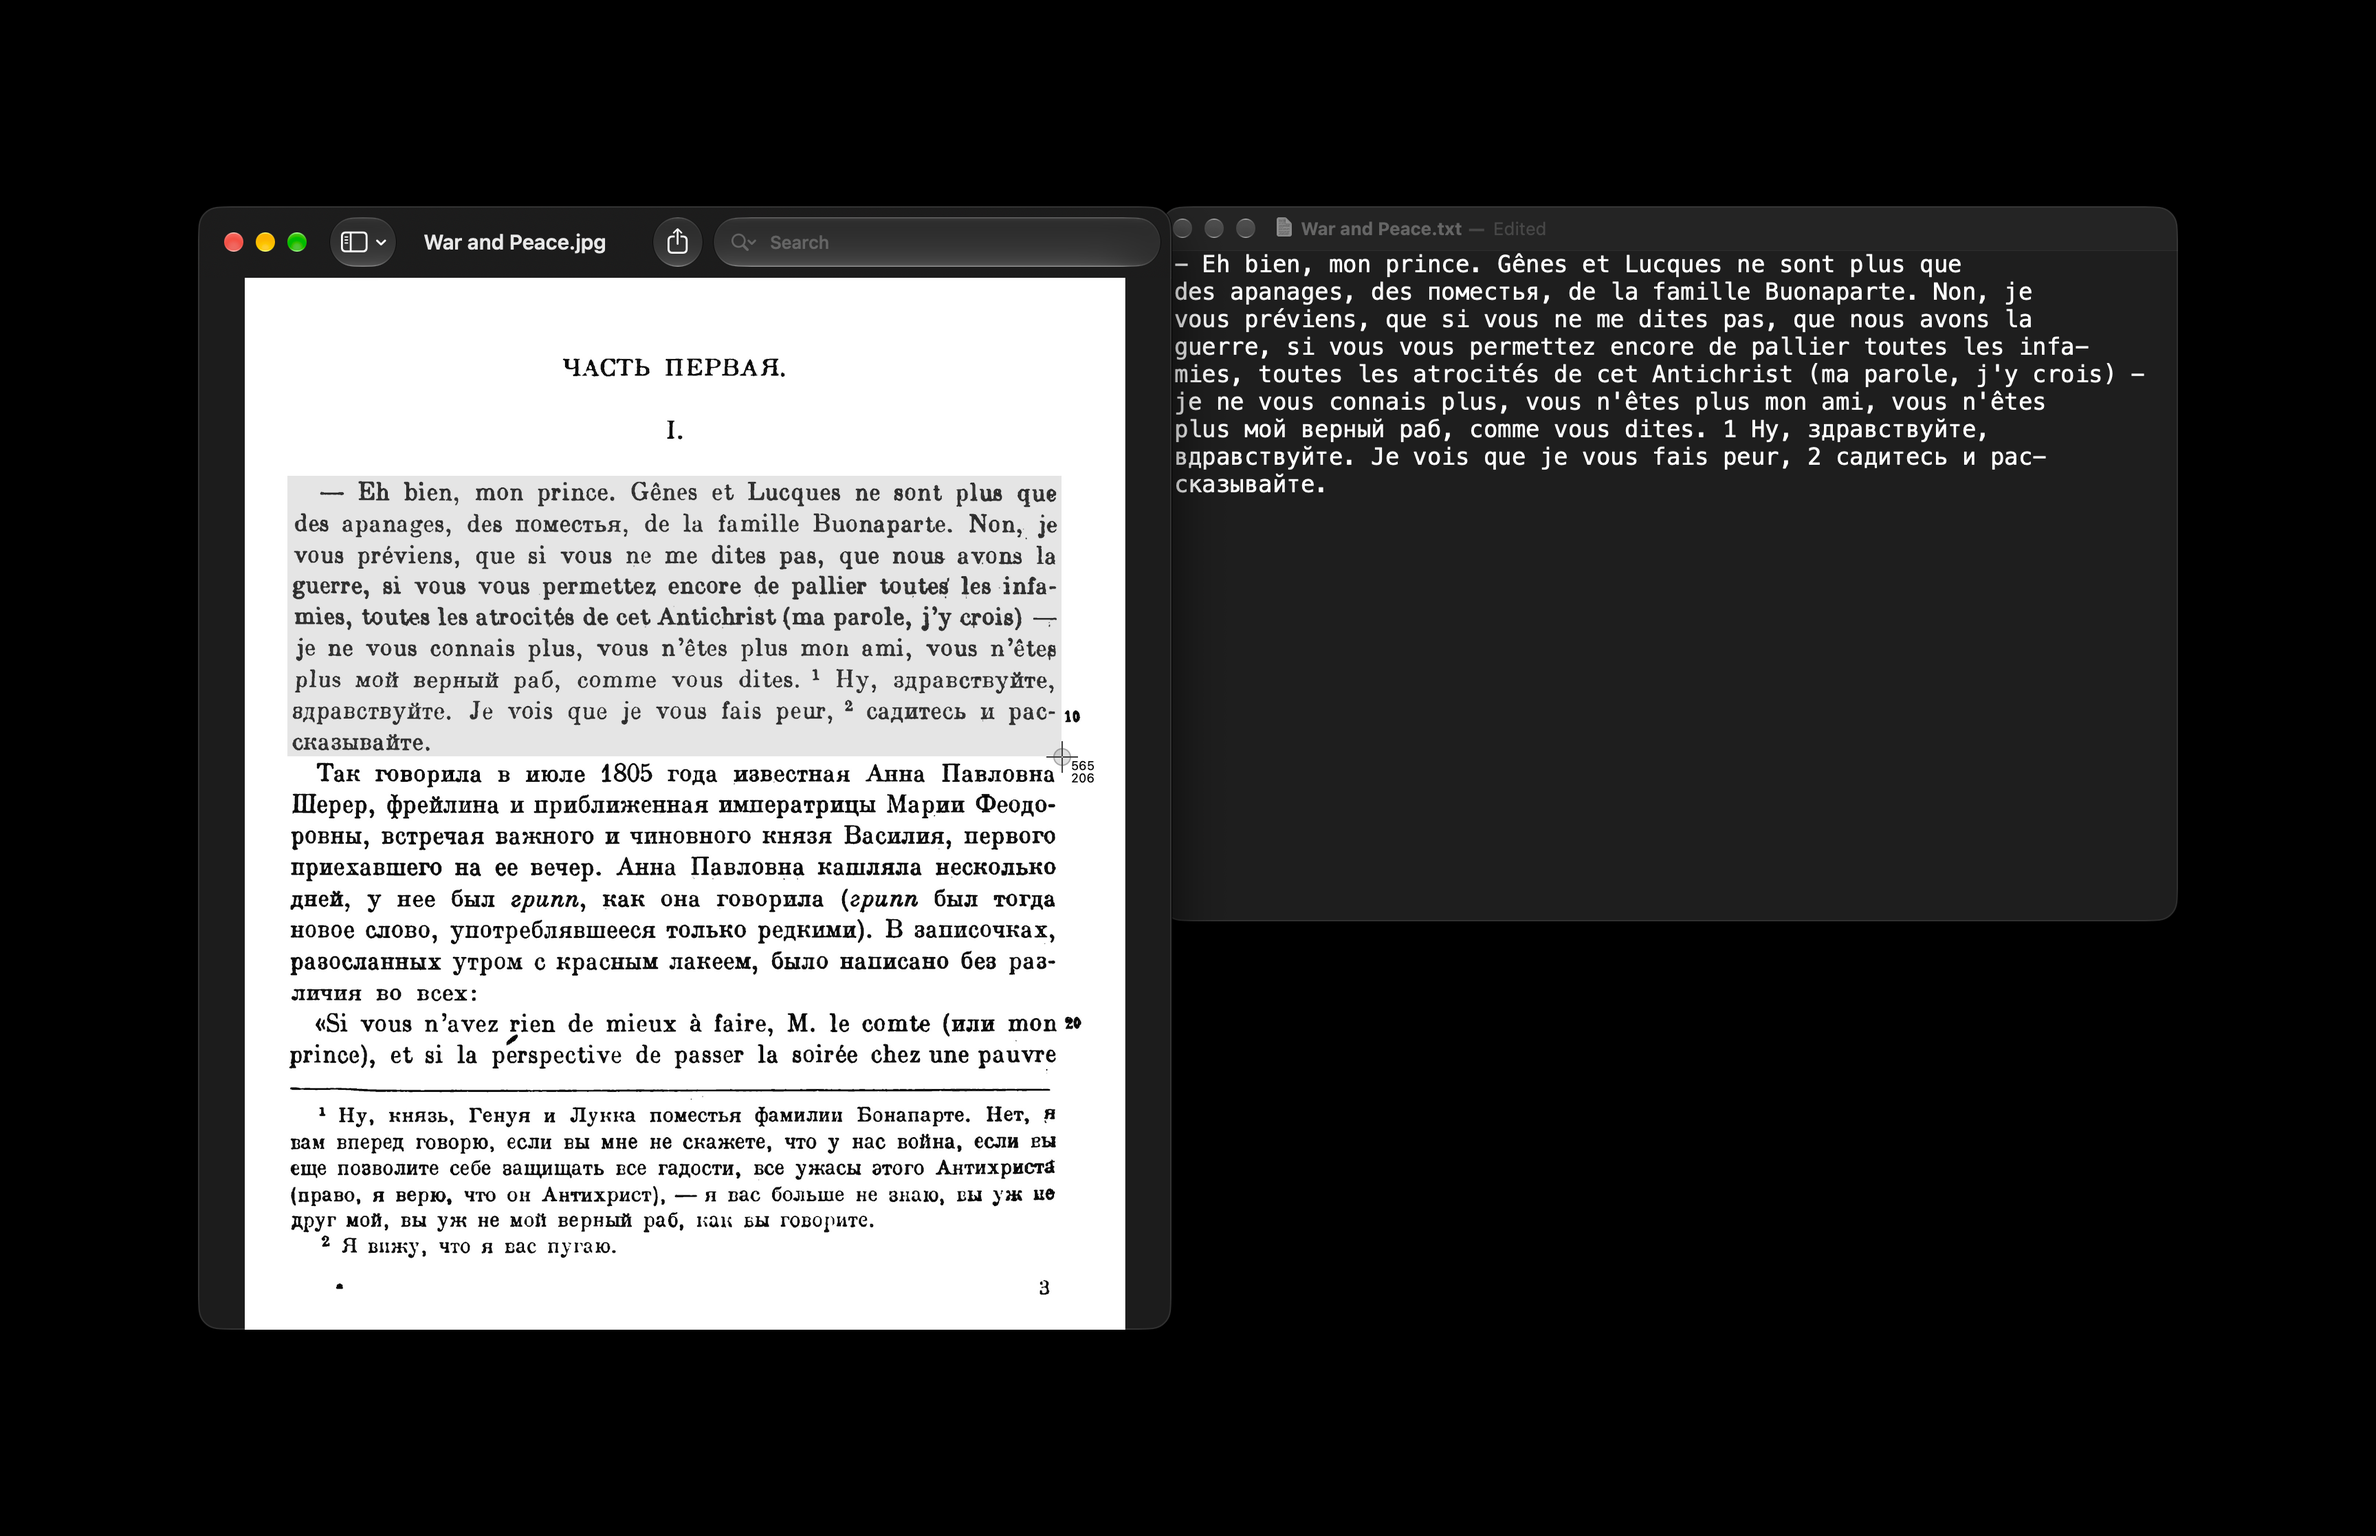
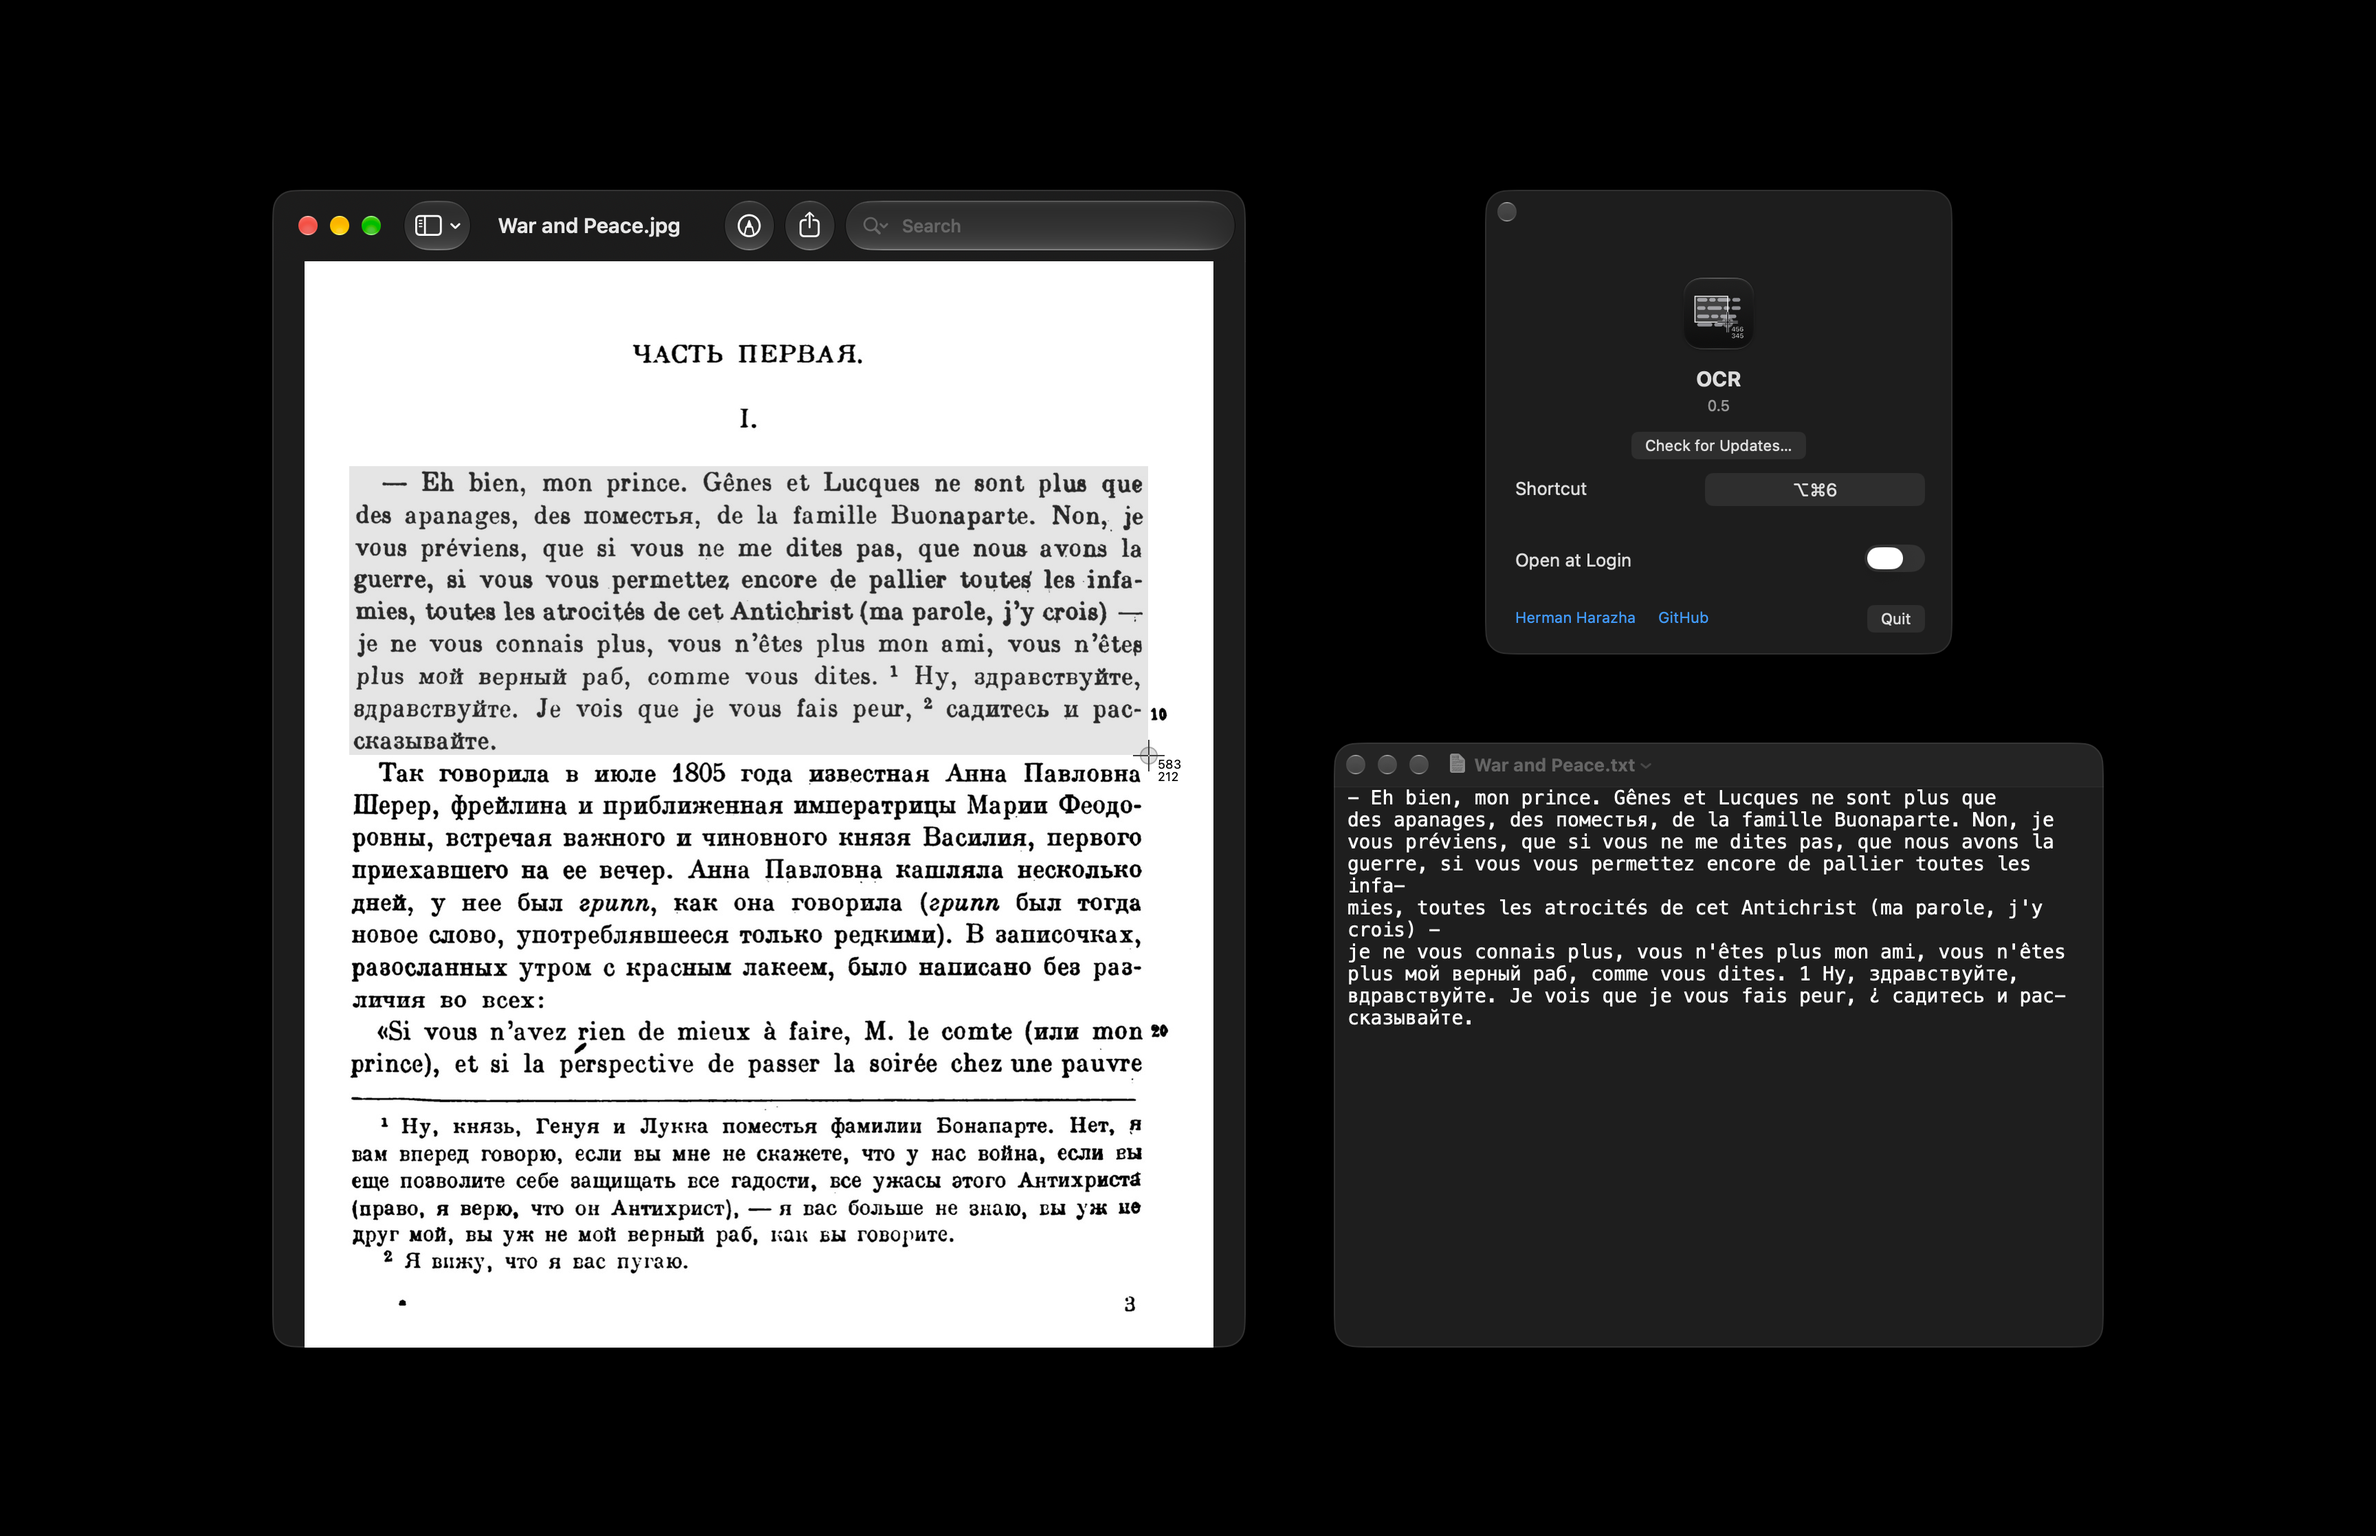
README: new screenshots
Reshot 2026-11-26 on macOS 27, light and dark pairs, lossless WebP.

diff --git a/README.md b/README.md
@@ -4,6 +4,10 @@
 
 Screen text recognition for Mac. The text of any selected area of the screen is copied to the clipboard.
 
+<picture><source media="(prefers-color-scheme: dark)" srcset="docs/scene.webp"><img src="docs/scene-light.webp" width="830" alt="The first page of War and Peace (1937 edition) in Preview, French with Russian words inside, its opening paragraph selected; beside it OCR’s settings and a TextEdit with the text OCR returned"></picture>
+
+<picture><source media="(prefers-color-scheme: dark)" srcset="docs/copied.webp"><img src="docs/copied-light.webp" width="830" alt="The same without the selection: the paragraph in TextEdit as OCR returned it"></picture>
+
 Apple silicon, macOS 13 or later.
 
 ## Install
